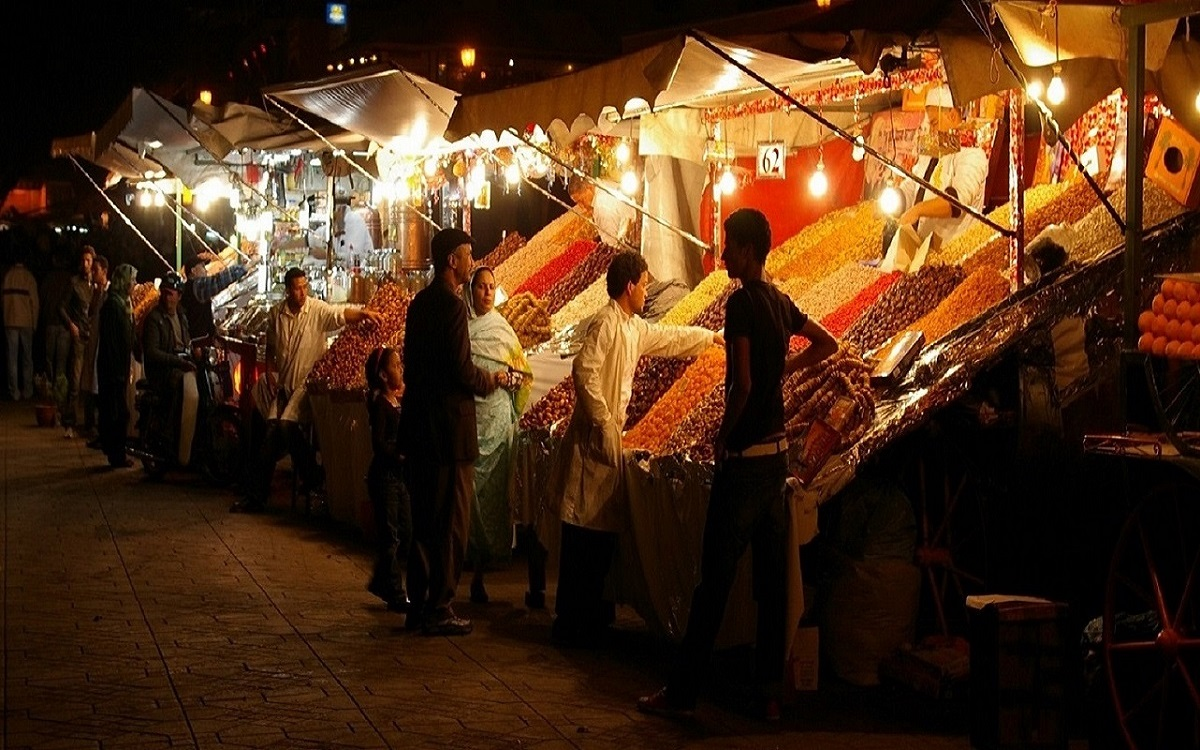
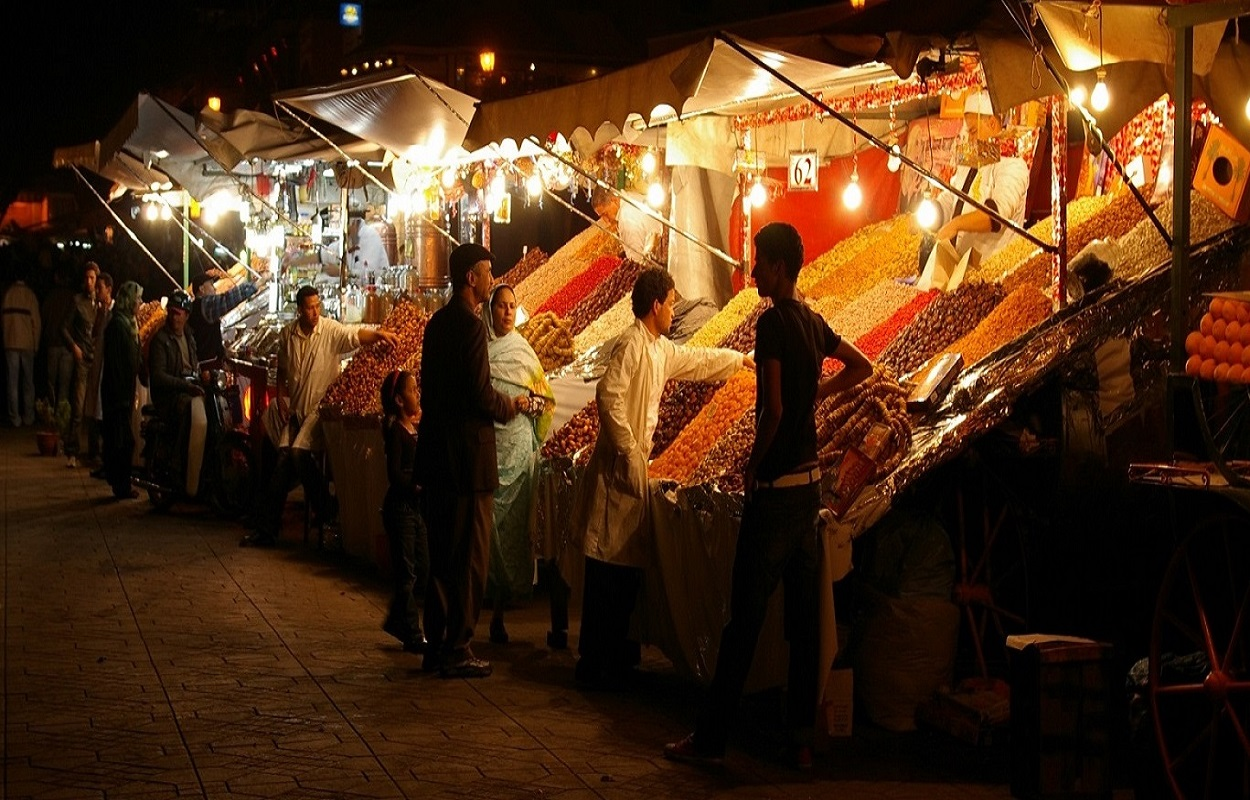
navbar breakpoint changed, image marrakech size adapted

diff --git a/app/assets/stylesheets/static_pages.scss b/app/assets/stylesheets/static_pages.scss
@@ -19,6 +19,7 @@ body {
 	height: 6em;
 }
 
+
 .navbar-right li {
 	padding-right: 1em;
 }
@@ -58,6 +59,44 @@ a:hover, .btn-primary:hover, #login:hover, #edit:hover, #back:hover, .send-butto
 .actions {
 	color: #28c093;
 	font-family: Acme,Arial,Georgia,serif;
+}
+
+
+@media (max-width: 1056px) {
+    .navbar-header {
+        float: none;
+    }
+    .navbar-left,.navbar-right {
+        float: none !important;
+    }
+    .navbar-toggle {
+        display: block;
+    }
+    .navbar-collapse {
+        border-top: 1px solid transparent;
+        box-shadow: inset 0 1px 0 rgba(255,255,255,0.1);
+    }
+    .navbar-fixed-top {
+        top: 0;
+        border-width: 0 0 1px;
+    }
+    .navbar-collapse.collapse {
+        display: none!important;
+    }
+    .navbar-nav {
+        float: none!important;
+        margin-top: 7.5px;
+    }
+    .navbar-nav>li {
+        float: none;
+    }
+    .navbar-nav>li>a {
+        padding-top: 10px;
+        padding-bottom: 10px;
+    }
+    .collapse.in{
+        display:block !important;
+    }
 }
 
 /***carousel***/

diff --git a/spec/Models/user_spec.rb b/spec/Models/user_spec.rb
@@ -3,13 +3,13 @@ require 'rails_helper'
 describe User, type: :model do 
 
   it "should not validate users without an email address" do
-  	@user = FactoryGirl.build(:user, email: "not_an_email", encrypted_password: "secret")
+  	@user = FactoryGirl.build(:user, email: "not_an_email", password: "secret")
   	expect(@user).to_not be_valid
   end
 
   it "empty password is not valid" do
     @user = FactoryGirl.build(:user, email: "gitta@gmail.com")
-    expect(User.new(email:"gitta@gmail.com", encrypted_password: nil)).not_to be_valid
+    expect(User.new(email:"gitta@gmail.com", password: nil)).not_to be_valid
   end
   	
   #context "testing validations" do

diff --git a/spec/Factories/user_factory.rb b/spec/Factories/user_factory.rb
@@ -5,7 +5,7 @@ FactoryGirl.define do
     email 
     #id "1"
     sequence(:id) { |id| id }
-    encrypted_password "0987654321"
+    password "0987654321" #encrypted_password?
     first_name "UserA"
     last_name "AUser"
     admin false
